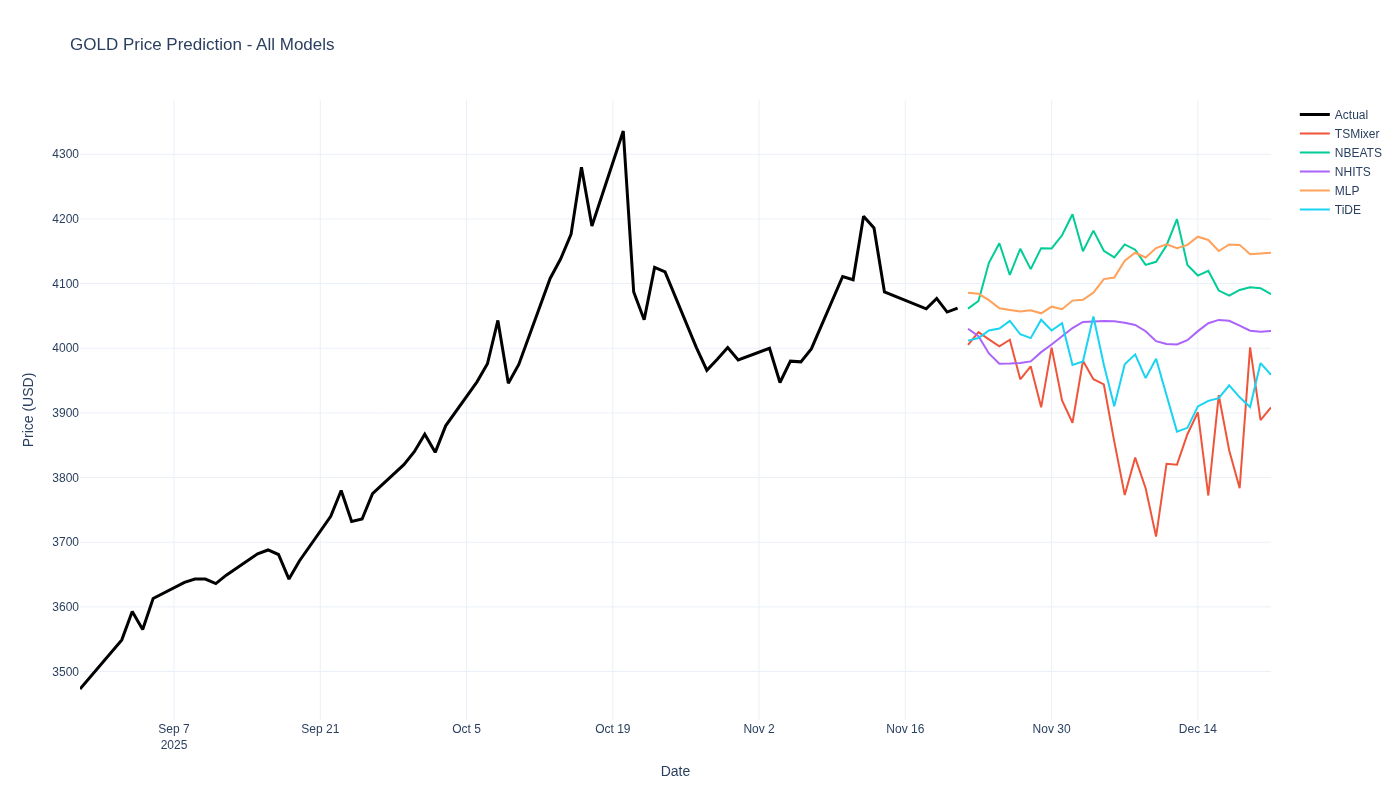
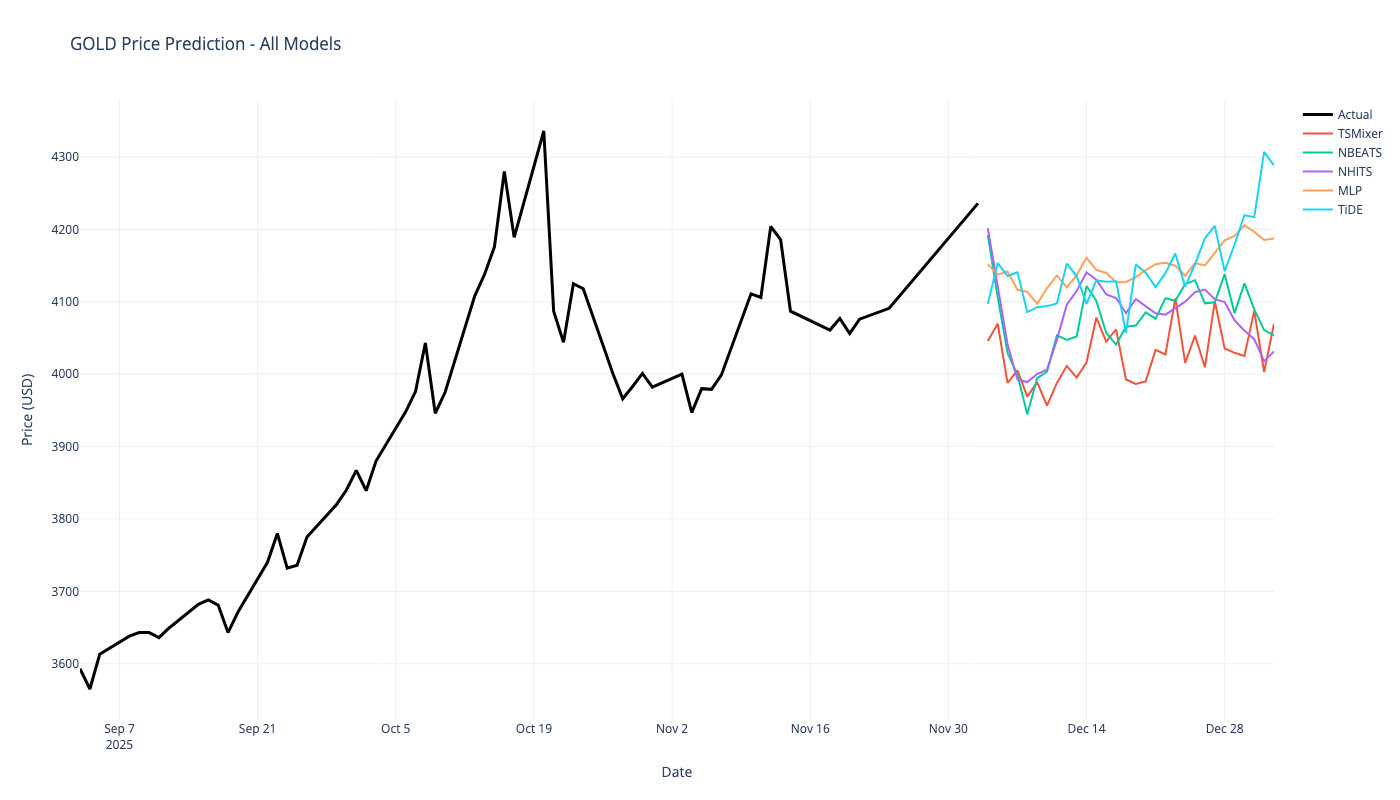
[PERF] optimize hyperparams for gold

diff --git a/update_gold.py b/update_gold.py
@@ -13,21 +13,21 @@ gld_df.insert(0, "unique_id", "1.0")
 horizon = 30
 
 models = [
-    TSMixer(h=horizon, n_series=1, input_size=512, n_block=5, ff_dim=256, dropout=0.35,
-            revin=True, max_steps=350, learning_rate=1e-3, scaler_type="standard", batch_size=32),
-    NBEATS(h=horizon, input_size=336, max_steps=350, learning_rate=1e-3, scaler_type="robust",
-           n_blocks=[4, 4], mlp_units=[[512, 512], [512, 512]], stack_types=["trend", "seasonality"], batch_size=32),
-    NHITS(h=horizon, input_size=512, max_steps=350, learning_rate=1e-3, scaler_type="robust",
-          n_freq_downsample=[8, 4, 2, 1], interpolation_mode="linear", pooling_mode="MaxPool1d", activation="ReLU", batch_size=32),
-    MLP(h=horizon, input_size=336, max_steps=350, learning_rate=1e-3, scaler_type="standard",
-        num_layers=4, hidden_size=512, batch_size=32),
-    TiDE(h=horizon, input_size=720, max_steps=350, learning_rate=1e-3, scaler_type="standard",
-         hidden_size=512, decoder_output_dim=32, temporal_decoder_dim=128, dropout=0.3, batch_size=32),
+    TSMixer(h=horizon, n_series=1, input_size=504, n_block=4, ff_dim=128, dropout=0.5,
+            revin=True, max_steps=350, learning_rate=5e-4, scaler_type="robust", batch_size=32),
+    NBEATS(h=horizon, input_size=504, max_steps=350, learning_rate=5e-4, scaler_type="robust",
+           n_blocks=[3, 3], mlp_units=[[512, 512], [512, 512]], stack_types=["trend", "seasonality"], batch_size=32),
+    NHITS(h=horizon, input_size=504, max_steps=350, learning_rate=1e-3, scaler_type="robust",
+          n_freq_downsample=[24, 12, 1], interpolation_mode="linear", pooling_mode="MaxPool1d", activation="LeakyReLU", batch_size=32),
+    MLP(h=horizon, input_size=252, max_steps=350, learning_rate=1e-3, scaler_type="robust",
+        num_layers=2, hidden_size=512, batch_size=32),
+    TiDE(h=horizon, input_size=504, max_steps=350, learning_rate=5e-4, scaler_type="robust",
+         hidden_size=512, decoder_output_dim=32, temporal_decoder_dim=128, dropout=0.5, batch_size=32),
 ]
 
 print("Training models...")
 nf = NeuralForecast(models=models, freq="D")
-nf.fit(df=gld_df)
+nf.fit(df=gld_df, val_size=horizon)
 
 print("Generating predictions...")
 Y_hat_df = nf.predict()
